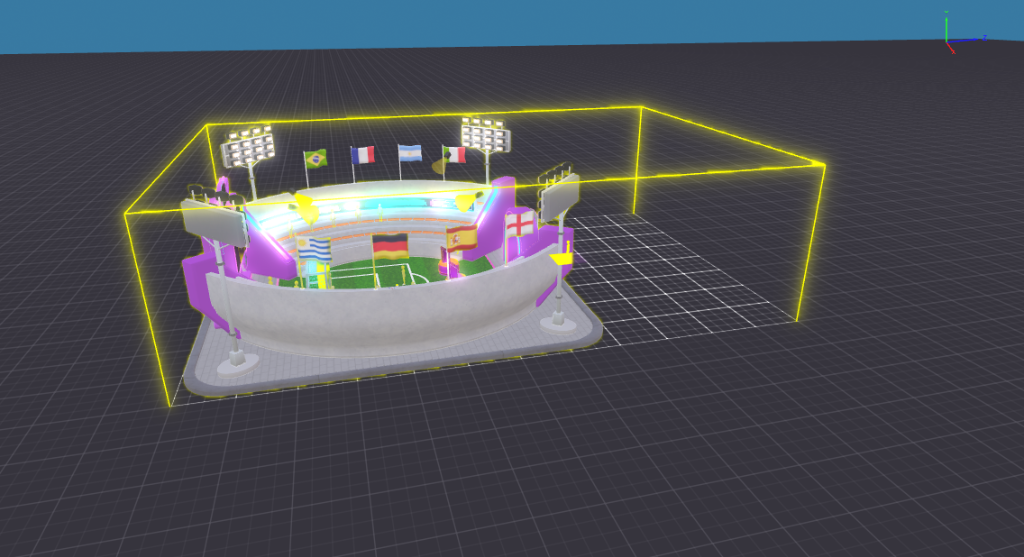
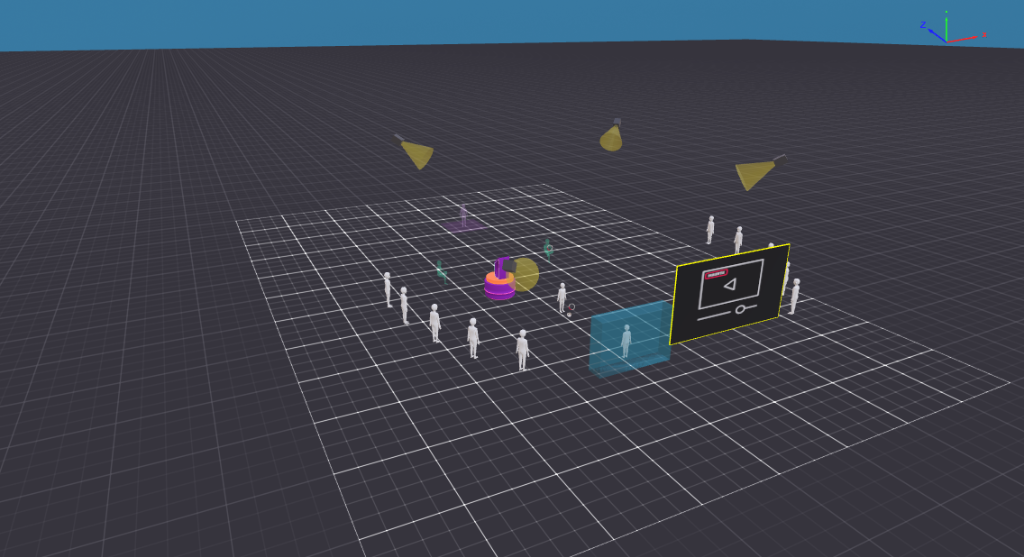
Update start button and welcome screen

diff --git a/src/client/uiManager.tsx b/src/client/uiManager.tsx
@@ -23,7 +23,8 @@ import {
   redPicBgBackground,
   facePicBackground,
   scoreboardBadgeF7Background,
-  scoreboardBadgeE7Background
+  scoreboardBadgeE7Background,
+  splashStartButtonBackground
 } from './countryStore'
 import { logoBackground } from './uiAtlasStore'
 
@@ -1051,33 +1052,22 @@ const lbRows = getLeaderboardRows(s.leaderboardJson, LEADERBOARD_TOP_N)
             justifyContent: 'center',
             zIndex: 999,
           }}
-          uiBackground={{ color: Color4.create(0, 0, 0, 0.95) }}
+          uiBackground={{ color: Color4.create(0.03, 0.2, 0.05, isMobile() ? 0.7 : 0.88) }}
         >
           <UiEntity
             uiTransform={{
-              display: 'flex',
-              flexDirection: 'column',
-              alignItems: 'center',
-              justifyContent: 'center',
+              width: 540,
+              height: 540,
+              margin: { bottom: isMobile() ? -12 : -20 },
               pointerFilter: 'none',
             }}
-          >
-            <Label
-              value="Welcome to:"
-              fontSize={fs(36)}
-              color={Color4.White()}
-              textAlign="middle-center"
-              uiTransform={{ margin: { bottom: 12 }, pointerFilter: 'none' }}
-            />
-            <UiEntity
-              uiTransform={{ width: 540, height: 540, margin: { bottom: 24 }, pointerFilter: 'none' }}
-              uiBackground={logoBackground()}
-            />
-          </UiEntity>
+            uiBackground={logoBackground()}
+          />
           <UiEntity
             uiTransform={{
-              width: isMobile() ? 320 : 240,
-              height: isMobile() ? 160 : 120,
+              width: isMobile() ? 330 : 240,
+              height: isMobile() ? 110 : 80,
+              margin: { top: isMobile() ? -8 : -12 },
               positionType: 'relative',
               zIndex: 1,
             }}
@@ -1085,28 +1075,11 @@ const lbRows = getLeaderboardRows(s.leaderboardJson, LEADERBOARD_TOP_N)
             <Button
               value=""
               uiTransform={{ width: '100%', height: '100%' }}
-              uiBackground={{
-                textureMode: 'stretch',
-                texture: { src: 'assets/images/UI_buttons.png' },
-                uvs: [0, 0.5, 0, 0.75, 0.5, 0.75, 0.5, 0.5],
-                color: Color4.White()
-              }}
+              uiBackground={splashStartButtonBackground(hoverSplashStart && !isMobile())}
               onMouseDown={() => { dismissSplash() }}
               onMouseEnter={() => { if (!isMobile()) hoverSplashStart = true }}
               onMouseLeave={() => { if (!isMobile()) hoverSplashStart = false }}
             />
-            {hoverSplashStart && !isMobile() && (
-              <UiEntity
-                uiTransform={{
-                  positionType: 'absolute',
-                  position: { bottom: 0, left: '10%' },
-                  width: '80%',
-                  height: 5,
-                  pointerFilter: 'none'
-                }}
-                uiBackground={{ color: Color4.White() }}
-              />
-            )}
           </UiEntity>
         </UiEntity>
       )}

diff --git a/src/client/countryStore.ts b/src/client/countryStore.ts
@@ -78,17 +78,44 @@ export function assignRandomCountryIfNeeded(snapshotIso: string) {
   selectCountry(pickRandomCountryIso())
 }
 
+function parseAtlasCell(coordinates: string): { col: number; row: number } | null {
+  const m = /^([A-H])([1-8])$/i.exec(coordinates.trim())
+  if (!m) return null
+  return { col: m[1].toUpperCase().charCodeAt(0) - 65, row: parseInt(m[2], 10) - 1 }
+}
+
 /** Grid cell "A1".."H8" → UV quad for flags.png (8×8, row 1 = top). */
 export function flagCoordinatesToUvs(coordinates: string): number[] {
-  const m = /^([A-H])([1-8])$/i.exec(coordinates.trim())
-  if (!m) return [0, 0, 0, 1, 1, 1, 1, 0]
-  const col = m[1].toUpperCase().charCodeAt(0) - 65
-  const row = parseInt(m[2], 10) - 1
-  const u0 = col / FLAG_GRID_COLS
-  const u1 = (col + 1) / FLAG_GRID_COLS
+  const cell = parseAtlasCell(coordinates)
+  if (!cell) return [0, 0, 0, 1, 1, 1, 1, 0]
+  const u0 = cell.col / FLAG_GRID_COLS
+  const u1 = (cell.col + 1) / FLAG_GRID_COLS
+  const v0 = (FLAG_GRID_ROWS - cell.row - 1) / FLAG_GRID_ROWS
+  const v1 = (FLAG_GRID_ROWS - cell.row) / FLAG_GRID_ROWS
+  return [u0, v0, u0, v1, u1, v1, u1, v0]
+}
+
+/** Adjacent cells on the same row (e.g. A8+B8+C8) as one wide sprite. */
+export function atlasCellsHorizontalBackground(coords: string[]) {
+  if (!coords.length) {
+    return { color: Color4.create(0, 0, 0, 0) }
+  }
+  const cells = coords.map(parseAtlasCell).filter((c): c is { col: number; row: number } => c !== null)
+  if (!cells.length) return atlasCellBackground(coords[0]!)
+  const row = cells[0]!.row
+  if (!cells.every((c) => c.row === row)) return atlasCellBackground(coords[0]!)
+  const minCol = Math.min(...cells.map((c) => c.col))
+  const maxCol = Math.max(...cells.map((c) => c.col))
+  const u0 = minCol / FLAG_GRID_COLS
+  const u1 = (maxCol + 1) / FLAG_GRID_COLS
   const v0 = (FLAG_GRID_ROWS - row - 1) / FLAG_GRID_ROWS
   const v1 = (FLAG_GRID_ROWS - row) / FLAG_GRID_ROWS
-  return [u0, v0, u0, v1, u1, v1, u1, v0]
+  return {
+    textureMode: 'stretch' as const,
+    texture: { src: FLAGS_SHEET_SRC },
+    uvs: [u0, v0, u0, v1, u1, v1, u1, v0],
+    color: Color4.White()
+  }
 }
 
 export function getCountryByIso(iso: string): Country | undefined {
@@ -106,6 +133,9 @@ export const DEFAULT_PROFILE_PIC_COORD = 'D8'
 /** Extra badges on scoreboard player-B row (flags.png). */
 export const SCOREBOARD_BADGE_F7 = 'F7'
 export const SCOREBOARD_BADGE_E7 = 'E7'
+/** Splash "Start" button on flags.png (normal / hover, row 8). */
+export const SPLASH_START_NORMAL = ['A8', 'B8', 'C8'] as const
+export const SPLASH_START_HOVER = ['D8', 'E8', 'F8'] as const
 
 /** uiBackground for a cell on flags.png (e.g. "A7"). */
 export function atlasCellBackground(coordinates: string) {
@@ -155,6 +185,12 @@ export function scoreboardBadgeF7Background() {
 
 export function scoreboardBadgeE7Background() {
   return atlasCellBackground(SCOREBOARD_BADGE_E7)
+}
+
+/** Splash Start: A8+B8+C8 normal, D8+E8+F8 hover (single texture, no Button children). */
+export function splashStartButtonBackground(hover = false) {
+  const coords = hover ? [...SPLASH_START_HOVER] : [...SPLASH_START_NORMAL]
+  return atlasCellsHorizontalBackground(coords)
 }
 
 /** uiBackground for a country flag sprite (flags.png atlas). */